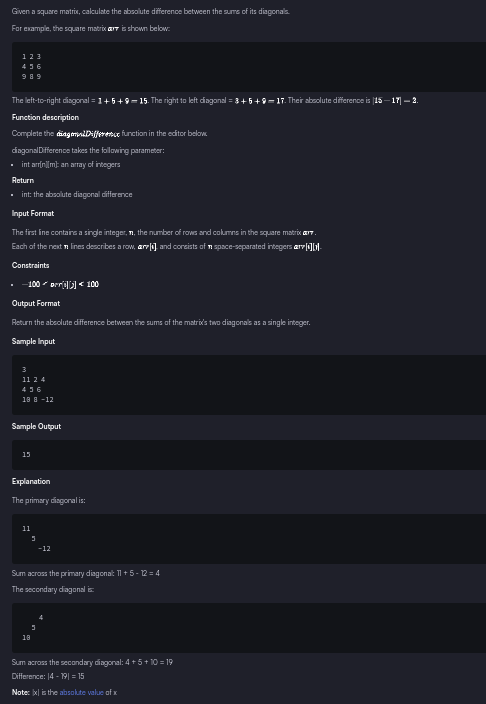
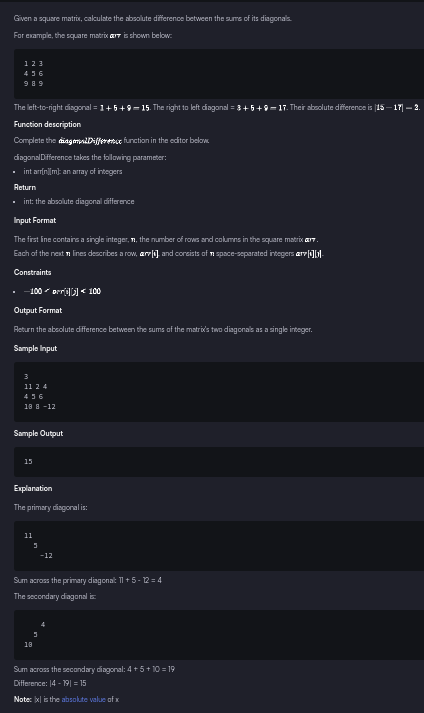
ejercicio, readme y img

diff --git a/5_Ejercicio/Diagonal_Difference.py b/5_Ejercicio/Diagonal_Difference.py
@@ -6,7 +6,6 @@ import random
 import re
 import sys
 
-#
 # Complete the 'diagonalDifference' function below.
 #
 # The function is expected to return an INTEGER.

diff --git a/5_Ejercicio/README.md b/5_Ejercicio/README.md
@@ -1,0 +1,7 @@
+# 5 Ejercicio
+
+### Quenstion
+![Imagen pegada](img1.png)
+
+### Solution
+![Imagen pegada (2)](Img2.png)
